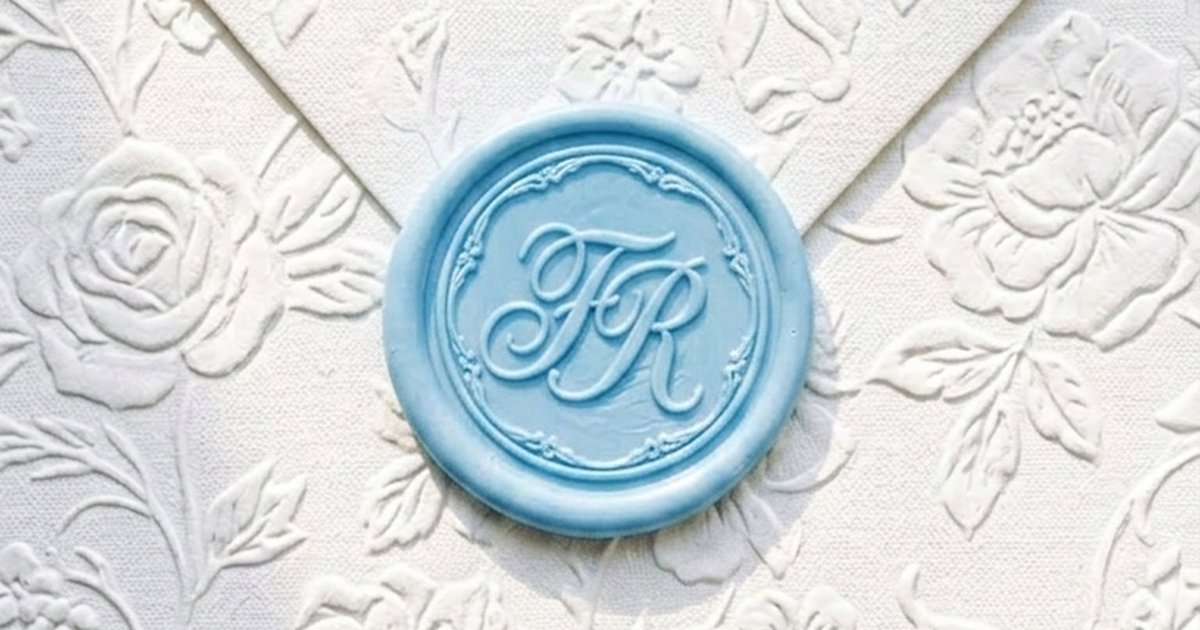
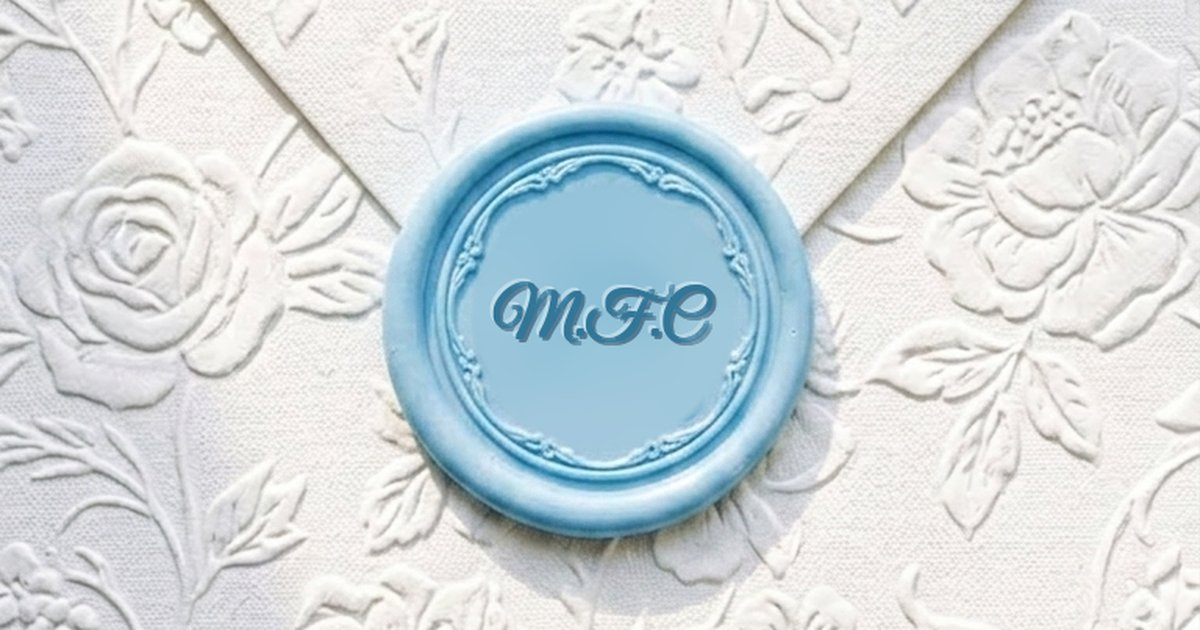
feat: itinerario bilingüe, sello M.F.C, línea de tiempo de crecimiento y fix de dominio
- Itinerario completo en inglés y español (10 puntos)
- Sello de cera del sobre corregido de FR a M.F.C (og.jpg regenerado)
- Nueva sección de línea de tiempo fotográfica (17 fotos, 6 etapas de crecimiento)
- Corregido dominio erróneo en og:image y RSVP (xv-mia.vercel.app pertenece a otro proyecto)

Changed region(s): [[0.4008, 0.3317, 0.6167, 0.6635]]

diff --git a/index.html b/index.html
@@ -7,7 +7,7 @@
 <meta name="description" content="Invitación digital a los XV Años de Mia F. Correa — 19 de diciembre de 2026, Hyannis, Massachusetts">
 <meta property="og:title" content="XV Años de Mia F. Correa">
 <meta property="og:description" content="19 de diciembre de 2026 · Hyannis, Massachusetts">
-<meta property="og:image" content="https://xv-mia.vercel.app/og.jpg">
+<meta property="og:image" content="https://xv-mia-psi.vercel.app/og.jpg">
 <meta property="og:type" content="website">
 <link rel="preconnect" href="https://fonts.googleapis.com">
 <link rel="preconnect" href="https://fonts.gstatic.com" crossorigin>
@@ -185,6 +185,7 @@ section{padding:62px 26px;position:relative;}
 .tl-time{font-family:'Cormorant Garamond',serif;font-size:22px;font-weight:600;color:var(--accent);line-height:1.05;}
 .tl-ev{font-family:'Lato',sans-serif;font-size:12.5px;letter-spacing:1.5px;text-transform:uppercase;color:var(--ink-soft);margin-top:2px;line-height:1.35;}
 .tl-desc{font-family:'Cormorant Garamond',serif;font-style:italic;font-size:13px;color:var(--ink-soft);line-height:1.4;margin-top:3px;opacity:.85;}
+.tl-desc.tl-en{opacity:.6;margin-top:5px;padding-top:5px;border-top:1px solid var(--hair,rgba(0,86,214,.15));}
 .tl-fin .tl-icon{position:relative;}
 .tl-gracias{font-family:'Great Vibes',cursive;font-size:24px;color:var(--accent);}
 
@@ -311,6 +312,54 @@ footer .fd{font-family:'Cormorant Garamond',serif;font-style:italic;font-size:14
 @keyframes hintPulse{0%,100%{opacity:.4;width:32px;}50%{opacity:1;width:54px;}}
 
 .rv{will-change:transform,opacity;}
+
+/* ============ CRECIENDO — LÍNEA DE TIEMPO FOTOGRÁFICA ============ */
+.saga{padding:min(14vh,120px) 0 min(8vh,60px);overflow:hidden;position:relative;}
+.saga .gallery-head{margin-bottom:24px;text-align:center;padding:0 26px;}
+.gallery-sub{font-family:'Cormorant Garamond',serif;font-style:italic;font-size:16px;color:var(--dark);margin-top:2px;}
+.saga-stage{position:relative;height:100svh;min-height:600px;display:flex;align-items:center;overflow:hidden}
+.saga-viewport{position:relative;width:100%;height:100%;display:flex;align-items:center;overflow:hidden}
+.saga-thread{position:absolute;left:0;right:0;top:50%;height:2px;transform:translateY(-1px);
+  background:linear-gradient(to right,transparent 0%,rgba(0,86,214,.12) 5%,rgba(0,86,214,.55) 50%,rgba(0,86,214,.12) 95%,transparent 100%);
+  box-shadow:0 0 16px rgba(0,86,214,.35);pointer-events:none;z-index:1}
+.saga-spark{position:absolute;top:50%;left:0;width:15px;height:15px;border-radius:50%;transform:translate(-50%,-50%);
+  background:radial-gradient(circle,#ffffff 0%,#cbf0ff 42%,rgba(0,86,214,0) 72%);
+  box-shadow:0 0 20px 5px rgba(0,86,214,.5);pointer-events:none;z-index:2}
+.saga-track{position:relative;display:flex;align-items:center;gap:clamp(16px,3vw,38px);
+  padding:0 50vw;height:100%;will-change:transform;z-index:2}
+.saga-photo{position:relative;flex:0 0 auto;width:clamp(158px,44vw,214px);aspect-ratio:3/4;
+  border-radius:14px;overflow:hidden;background:var(--paper);margin:0;
+  border:2px solid rgba(0,86,214,.28);
+  box-shadow:0 12px 34px rgba(0,26,86,.22);
+  transform:translateY(var(--off,0)) scale(.82);opacity:.52;filter:saturate(.92);
+  transition:transform .55s cubic-bezier(.2,.7,.2,1),opacity .55s,filter .55s,box-shadow .55s,border-color .55s}
+.saga-photo img{width:100%;height:100%;object-fit:cover;display:block;pointer-events:none}
+.saga-photo::after{content:"";position:absolute;inset:0;border:1px solid rgba(255,255,255,.4);border-radius:12px;pointer-events:none}
+.saga-photo.is-focus{transform:translateY(0) scale(1.08);opacity:1;filter:saturate(1.06);
+  border-color:rgba(0,86,214,.85);
+  box-shadow:0 22px 54px rgba(0,26,86,.32),0 0 0 1px rgba(203,240,255,.65),0 0 46px rgba(0,86,214,.28)}
+.saga-year{flex:0 0 auto;display:flex;flex-direction:column;align-items:center;justify-content:center;gap:6px;
+  width:clamp(96px,20vw,150px);z-index:3;text-align:center}
+.saga-year::before{content:"";width:1px;height:52px;background:linear-gradient(to bottom,transparent,var(--light),transparent);margin-bottom:8px}
+.saga-year-num{font-family:'Cormorant Garamond',serif;font-style:italic;font-weight:600;font-size:clamp(38px,7vw,64px);color:var(--accent);line-height:1}
+.saga-year-lbl{font-family:'Cinzel',serif;font-size:10px;letter-spacing:.32em;text-transform:uppercase;color:var(--dark);padding-left:.32em;font-weight:500}
+.saga-hud{position:absolute;top:clamp(12px,3vh,28px);left:50%;transform:translateX(-50%);z-index:5;text-align:center;pointer-events:none}
+.saga-hud-year{font-family:'Cormorant Garamond',serif;font-style:italic;font-weight:600;font-size:clamp(26px,4.5vw,40px);color:var(--dark);line-height:1}
+.saga-hud-days{font-family:'Cinzel',serif;font-size:11px;letter-spacing:.1em;color:var(--ink-soft);margin-top:8px;font-weight:500;text-transform:uppercase}
+.saga-hud-days b{font-family:'Cormorant Garamond',serif;font-style:italic;color:var(--accent);font-size:1.5em;font-weight:600}
+.wheel-hint{text-align:center;font-family:'Cormorant Garamond',serif;font-style:italic;font-size:13px;letter-spacing:.06em;color:var(--ink-soft);opacity:.75;}
+.saga-hint{margin-top:14px}
+/* Fallback sin pin (reduced-motion): tira horizontal con snap */
+.saga-fallback .saga-stage{height:auto;min-height:0;display:block}
+.saga-fallback .saga-viewport{overflow-x:auto;overflow-y:hidden;scroll-snap-type:x proximity;-webkit-overflow-scrolling:touch;padding:24px 0 30px}
+.saga-fallback .saga-track{padding:0 16px;height:auto;transform:none!important}
+.saga-fallback .saga-photo{scroll-snap-align:center;transform:scale(1);opacity:1;filter:none}
+.saga-fallback .saga-hud,.saga-fallback .saga-spark,.saga-fallback .saga-thread{display:none}
+@media (max-width:520px){
+  .saga-stage{min-height:540px}
+  .saga-track{gap:14px}
+  .saga-photo{width:min(60vw,240px)}
+}
 </style>
 </head>
 <body>
@@ -449,7 +498,8 @@ footer .fd{font-family:'Cormorant Garamond',serif;font-style:italic;font-size:14
           <div class="tl-text">
             <div class="tl-time">4:30 PM</div>
             <div class="tl-ev">Recepción</div>
-            <div class="tl-desc">Agradecemos su puntualidad</div>
+            <div class="tl-desc">Les damos la bienvenida. Agradecemos su puntualidad para disfrutar cada momento de esta celebración</div>
+            <div class="tl-desc tl-en">Welcome Reception — Please arrive on time to enjoy every special moment of the celebration</div>
           </div>
         </div>
 
@@ -459,7 +509,8 @@ footer .fd{font-family:'Cormorant Garamond',serif;font-style:italic;font-size:14
           <div class="tl-text">
             <div class="tl-time">5:30 PM</div>
             <div class="tl-ev">Gran Entrada</div>
-            <div class="tl-desc">Bienvenida a nuestra quinceañera</div>
+            <div class="tl-desc">La celebración da inicio mientras nuestra familia recibe con orgullo a nuestra querida cumpleañera, Mía</div>
+            <div class="tl-desc tl-en">Grand Entrance — The celebration begins as our family proudly welcomes our birthday girl, Mía</div>
           </div>
         </div>
 
@@ -469,7 +520,8 @@ footer .fd{font-family:'Cormorant Garamond',serif;font-style:italic;font-size:14
           <div class="tl-text">
             <div class="tl-time">5:40 PM</div>
             <div class="tl-ev">Ceremonia de XV</div>
-            <div class="tl-desc">Tradiciones y momentos inolvidables</div>
+            <div class="tl-desc">Una hermosa ceremonia llena de tradiciones, emociones y momentos inolvidables</div>
+            <div class="tl-desc tl-en">The XV Ceremony — A beautiful ceremony filled with meaningful traditions and unforgettable moments</div>
           </div>
         </div>
 
@@ -479,7 +531,8 @@ footer .fd{font-family:'Cormorant Garamond',serif;font-style:italic;font-size:14
           <div class="tl-text">
             <div class="tl-time">6:00 PM</div>
             <div class="tl-ev">Vals Especiales</div>
-            <div class="tl-desc">Con quienes guardan un lugar especial en su corazón</div>
+            <div class="tl-desc">Una tradición inolvidable compartida con las personas más importantes en la vida de Mía</div>
+            <div class="tl-desc tl-en">Special Waltzes — A timeless tradition shared with those who hold a special place in Mía's heart</div>
           </div>
         </div>
 
@@ -489,7 +542,8 @@ footer .fd{font-family:'Cormorant Garamond',serif;font-style:italic;font-size:14
           <div class="tl-text">
             <div class="tl-time">6:10 PM</div>
             <div class="tl-ev">Palabras y Brindis</div>
-            <div class="tl-desc">Mensajes llenos de cariño y gratitud</div>
+            <div class="tl-desc">Mensajes llenos de cariño, gratitud y un brindis para celebrar este día tan especial</div>
+            <div class="tl-desc tl-en">Words &amp; Toast — Heartfelt messages, gratitude, and a celebratory toast</div>
           </div>
         </div>
 
@@ -499,7 +553,8 @@ footer .fd{font-family:'Cormorant Garamond',serif;font-style:italic;font-size:14
           <div class="tl-text">
             <div class="tl-time">6:20 PM</div>
             <div class="tl-ev">Cena</div>
-            <div class="tl-desc">Buena comida y excelente compañía</div>
+            <div class="tl-desc">Disfrutemos juntos de una velada llena de buena comida y excelente compañía</div>
+            <div class="tl-desc tl-en">Dinner — An evening to savor delicious cuisine and wonderful company</div>
           </div>
         </div>
 
@@ -510,6 +565,7 @@ footer .fd{font-family:'Cormorant Garamond',serif;font-style:italic;font-size:14
             <div class="tl-time">6:50 PM</div>
             <div class="tl-ev">Baile Sorpresa</div>
             <div class="tl-desc">Una presentación preparada con mucho cariño</div>
+            <div class="tl-desc tl-en">Surprise Performance — A special performance prepared with love</div>
           </div>
         </div>
 
@@ -519,7 +575,8 @@ footer .fd{font-family:'Cormorant Garamond',serif;font-style:italic;font-size:14
           <div class="tl-text">
             <div class="tl-time">9:30 PM</div>
             <div class="tl-ev">Celebración de Cumpleaños</div>
-            <div class="tl-desc">Cantamos juntos el Feliz Cumpleaños</div>
+            <div class="tl-desc">Acompáñanos a cantar el Feliz Cumpleaños y celebrar este inolvidable momento</div>
+            <div class="tl-desc tl-en">Birthday Celebration — Join us as we sing Happy Birthday and celebrate this unforgettable milestone together</div>
           </div>
         </div>
 
@@ -529,7 +586,8 @@ footer .fd{font-family:'Cormorant Garamond',serif;font-style:italic;font-size:14
           <div class="tl-text">
             <div class="tl-time">10:00 PM</div>
             <div class="tl-ev">Una Sorpresa Especial</div>
-            <div class="tl-desc">Un momento mágico por descubrir</div>
+            <div class="tl-desc">Porque aún queda un momento mágico por descubrir</div>
+            <div class="tl-desc tl-en">A Special Surprise — One more unforgettable moment awaits</div>
           </div>
         </div>
 
@@ -539,6 +597,8 @@ footer .fd{font-family:'Cormorant Garamond',serif;font-style:italic;font-size:14
           <div class="tl-text">
             <div class="tl-time">11:45 PM</div>
             <div class="tl-ev">Despedida</div>
+            <div class="tl-desc">Gracias por acompañarnos y formar parte de esta noche inolvidable</div>
+            <div class="tl-desc tl-en">Farewell — Thank you for celebrating this cherished evening with us</div>
             <div class="tl-gracias">¡Gracias!</div>
           </div>
         </div>
@@ -604,6 +664,111 @@ footer .fd{font-family:'Cormorant Garamond',serif;font-style:italic;font-size:14
       <div class="cf-fade-top"></div>
       <div class="cf-fade-bot"></div>
     </div>
+  </section>
+
+  <!-- CRECIENDO — LÍNEA DE TIEMPO FOTOGRÁFICA -->
+  <section class="saga" id="saga">
+    <div class="fcontent gallery-head">
+      <div class="eyebrow rv">Así fue creciendo</div>
+      <h2 class="sec-title rv">Mi historia <em>en el</em> tiempo</h2>
+      <div class="gallery-sub rv">De niña a quinceañera</div>
+    </div>
+
+    <div class="saga-stage" id="sagaStage">
+      <div class="saga-hud" aria-hidden="true">
+        <div class="saga-hud-year"><span id="sagaYear">Recién llegada</span></div>
+        <div class="saga-hud-days"><b id="sagaDays">0</b> años de recuerdos</div>
+      </div>
+      <div class="saga-viewport" id="sagaViewport">
+        <div class="saga-thread" aria-hidden="true"></div>
+        <div class="saga-spark" id="sagaSpark" aria-hidden="true"></div>
+        <div class="saga-track" id="sagaTrack">
+
+        <div class="saga-year" aria-hidden="true">
+          <span class="saga-year-num">0</span>
+          <span class="saga-year-lbl">Recién llegada</span>
+        </div>
+        <figure class="saga-photo" data-year="Recién llegada" style="--off:-30px">
+          <img src="creciendo-01.jpg" alt="Mia recién nacida" width="210" height="280" loading="lazy">
+        </figure>
+        <figure class="saga-photo" data-year="Recién llegada" style="--off:26px">
+          <img src="creciendo-02.jpg" alt="Mia recién nacida con sus papás" width="210" height="280" loading="lazy">
+        </figure>
+        <figure class="saga-photo" data-year="Recién llegada" style="--off:-16px">
+          <img src="creciendo-03.jpg" alt="Mia bebé con sus hermanas" width="210" height="280" loading="lazy">
+        </figure>
+
+        <div class="saga-year" aria-hidden="true">
+          <span class="saga-year-num">3</span>
+          <span class="saga-year-lbl">Pequeña</span>
+        </div>
+        <figure class="saga-photo" data-year="Pequeña" style="--off:30px">
+          <img src="creciendo-04.jpg" alt="Mia de pequeña" width="210" height="280" loading="lazy">
+        </figure>
+        <figure class="saga-photo" data-year="Pequeña" style="--off:-26px">
+          <img src="creciendo-05.jpg" alt="Mia de pequeña" width="210" height="280" loading="lazy">
+        </figure>
+        <figure class="saga-photo" data-year="Pequeña" style="--off:16px">
+          <img src="creciendo-06.jpg" alt="Mia de pequeña" width="210" height="280" loading="lazy">
+        </figure>
+
+        <div class="saga-year" aria-hidden="true">
+          <span class="saga-year-num">5</span>
+          <span class="saga-year-lbl">Niña</span>
+        </div>
+        <figure class="saga-photo" data-year="Niña" style="--off:-30px">
+          <img src="creciendo-07.jpg" alt="Mia de niña" width="210" height="280" loading="lazy">
+        </figure>
+        <figure class="saga-photo" data-year="Niña" style="--off:26px">
+          <img src="creciendo-08.jpg" alt="Mia de niña" width="210" height="280" loading="lazy">
+        </figure>
+        <figure class="saga-photo" data-year="Niña" style="--off:-16px">
+          <img src="creciendo-09.jpg" alt="Mia de niña" width="210" height="280" loading="lazy">
+        </figure>
+
+        <div class="saga-year" aria-hidden="true">
+          <span class="saga-year-num">8</span>
+          <span class="saga-year-lbl">Aventurera</span>
+        </div>
+        <figure class="saga-photo" data-year="Aventurera" style="--off:30px">
+          <img src="creciendo-10.jpg" alt="Mia aventurera" width="210" height="280" loading="lazy">
+        </figure>
+        <figure class="saga-photo" data-year="Aventurera" style="--off:-26px">
+          <img src="creciendo-11.jpg" alt="Mia aventurera" width="210" height="280" loading="lazy">
+        </figure>
+        <figure class="saga-photo" data-year="Aventurera" style="--off:16px">
+          <img src="creciendo-12.jpg" alt="Mia aventurera" width="210" height="280" loading="lazy">
+        </figure>
+
+        <div class="saga-year" aria-hidden="true">
+          <span class="saga-year-num">13</span>
+          <span class="saga-year-lbl">Casi señorita</span>
+        </div>
+        <figure class="saga-photo" data-year="Casi señorita" style="--off:-30px">
+          <img src="creciendo-13.jpg" alt="Mia casi señorita" width="210" height="280" loading="lazy">
+        </figure>
+        <figure class="saga-photo" data-year="Casi señorita" style="--off:26px">
+          <img src="creciendo-14.jpg" alt="Mia casi señorita" width="210" height="280" loading="lazy">
+        </figure>
+        <figure class="saga-photo" data-year="Casi señorita" style="--off:-16px">
+          <img src="creciendo-15.jpg" alt="Mia casi señorita" width="210" height="280" loading="lazy">
+        </figure>
+
+        <div class="saga-year saga-year--end" aria-hidden="true">
+          <span class="saga-year-num" style="color:var(--dark)">15</span>
+          <span class="saga-year-lbl">Mis XV años</span>
+        </div>
+        <figure class="saga-photo" data-year="Mis XV años" style="--off:30px">
+          <img src="creciendo-16.jpg" alt="Mia lista para sus XV años" width="210" height="280" loading="lazy">
+        </figure>
+        <figure class="saga-photo" data-year="Mis XV años" style="--off:-16px">
+          <img src="creciendo-17.jpg" alt="Mia el día de sus XV años" width="210" height="280" loading="lazy">
+        </figure>
+
+        </div>
+      </div>
+    </div>
+    <p class="wheel-hint saga-hint">Desliza para recorrer los años &nbsp;&rarr;</p>
   </section>
 
   <!-- ÁLBUM COMPARTIDO -->
@@ -765,6 +930,7 @@ function launchPage(){
   initScrollReveal();
   initTimeline();
   initCrossfade();
+  initSaga();
 }
 
 /* ── PÉTALOS azul ── */
@@ -819,6 +985,75 @@ function initCrossfade(){
   });
 }
 
+/* ── CRECIENDO — LÍNEA DE TIEMPO (pinneada cinematográfica) ── */
+function initSaga(){
+  var saga    = document.getElementById('saga');
+  var stage   = document.getElementById('sagaStage');
+  var viewport= document.getElementById('sagaViewport');
+  var track   = document.getElementById('sagaTrack');
+  var spark   = document.getElementById('sagaSpark');
+  var yearEl  = document.getElementById('sagaYear');
+  var daysEl  = document.getElementById('sagaDays');
+  if(!saga || !stage || !track) return;
+
+  var photos = Array.prototype.slice.call(track.querySelectorAll('.saga-photo'));
+  var TOTAL_STAGES = 15; // de recién nacida a los XV años
+
+  var prefersReduced = window.matchMedia && window.matchMedia('(prefers-reduced-motion: reduce)').matches;
+
+  // Fallback: reduced-motion -> tira horizontal deslizable, sin pin
+  if(prefersReduced){
+    saga.classList.add('saga-fallback');
+    return;
+  }
+
+  var lastFocus = null;
+  function distanceToScroll(){ return Math.max(1, track.scrollWidth - window.innerWidth); }
+
+  function updateScene(progress){
+    // spark viaja por el hilo
+    if(spark) spark.style.left = (progress*100) + '%';
+    // contador simbólico de años de recuerdos
+    if(daysEl){
+      var d = Math.round(progress * TOTAL_STAGES);
+      daysEl.textContent = d.toLocaleString('es-MX');
+    }
+    // foto en foco = la más cercana al centro de pantalla
+    var cx = window.innerWidth/2, best=null, bestD=1e9;
+    for(var i=0;i<photos.length;i++){
+      var r = photos[i].getBoundingClientRect();
+      var c = r.left + r.width/2;
+      var dd = Math.abs(c-cx);
+      if(dd<bestD){bestD=dd;best=photos[i];}
+    }
+    if(best && best!==lastFocus){
+      if(lastFocus) lastFocus.classList.remove('is-focus');
+      best.classList.add('is-focus');
+      lastFocus=best;
+      if(yearEl){ var y=best.getAttribute('data-year'); if(y) yearEl.textContent=y; }
+    }
+  }
+
+  gsap.to(track,{
+    x: function(){ return -distanceToScroll(); },
+    ease:'none',
+    scrollTrigger:{
+      trigger: stage,
+      start:'top top',
+      end: function(){ return '+=' + distanceToScroll(); },
+      pin: true,
+      scrub: 0.7,
+      anticipatePin: 1,
+      invalidateOnRefresh: true,
+      onUpdate: function(self){ updateScene(self.progress); },
+      onRefresh: function(self){ updateScene(self.progress); }
+    }
+  });
+
+  // estado inicial
+  requestAnimationFrame(function(){ updateScene(0); });
+}
+
 /* ── COUNTDOWN ── */
 (function(){
   const target=new Date('2026-12-19T16:30:00-05:00').getTime();
@@ -844,7 +1079,7 @@ function initCrossfade(){
 /* ── RSVP — Panel Invitados ── */
 (function(){
   const SLUG     = 'xv-mia';
-  const URL_INV  = 'https://xv-mia.vercel.app';
+  const URL_INV  = 'https://xv-mia-psi.vercel.app';
   const DEADLINE = new Date(2026, 9, 24, 23, 59, 59, 999);
   const frozen   = Date.now() > DEADLINE.getTime();
   const params   = new URLSearchParams(location.search);
